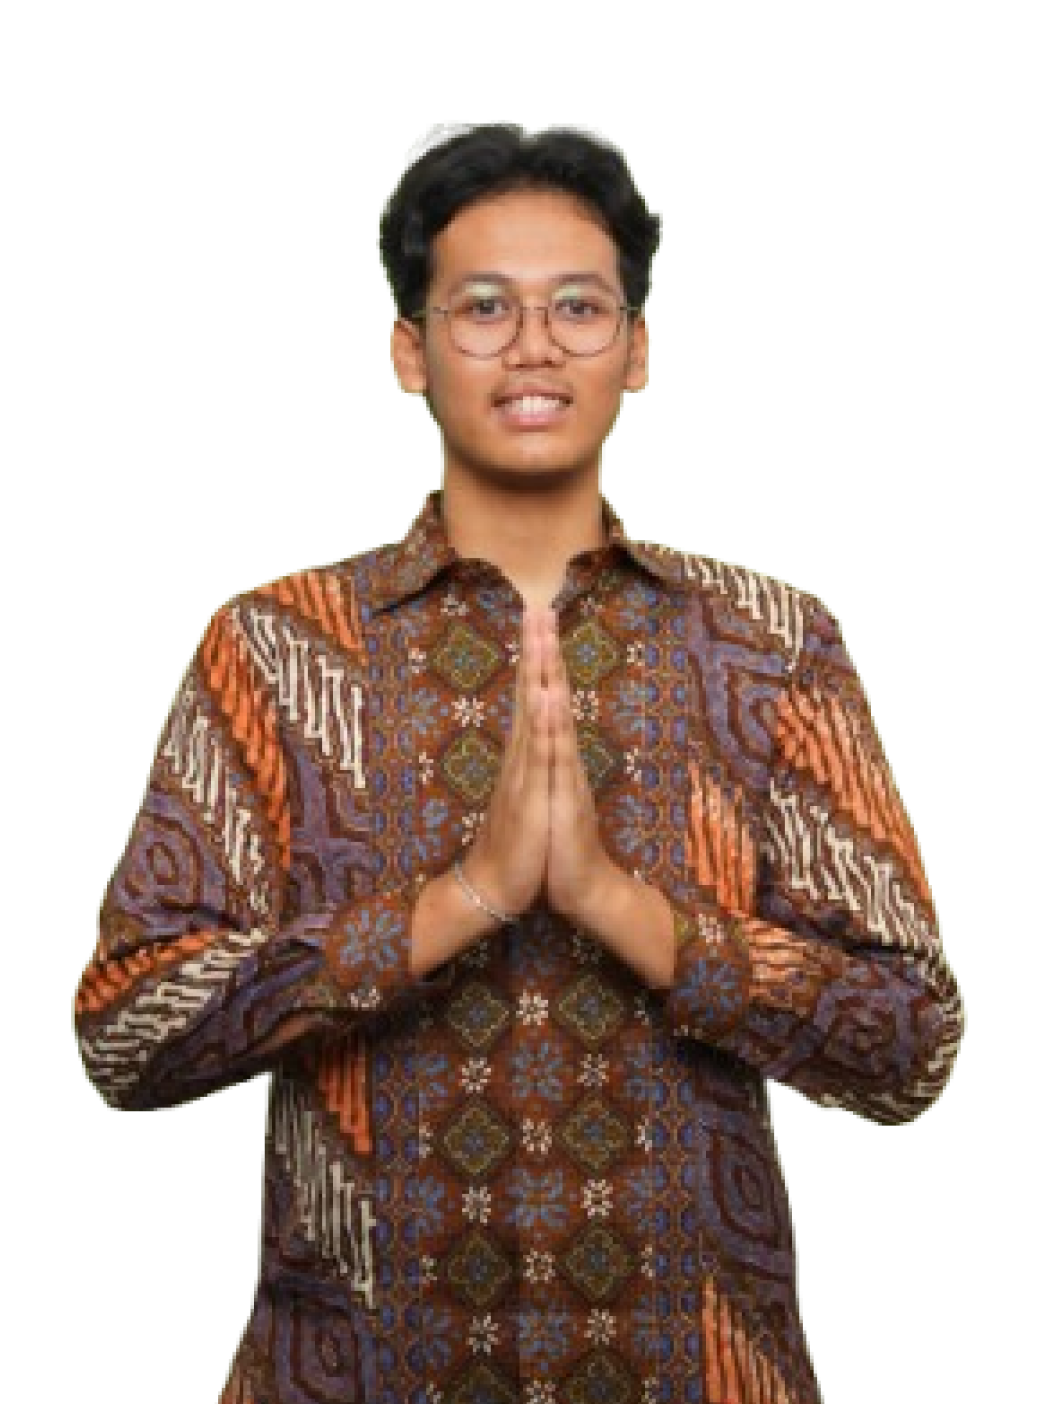
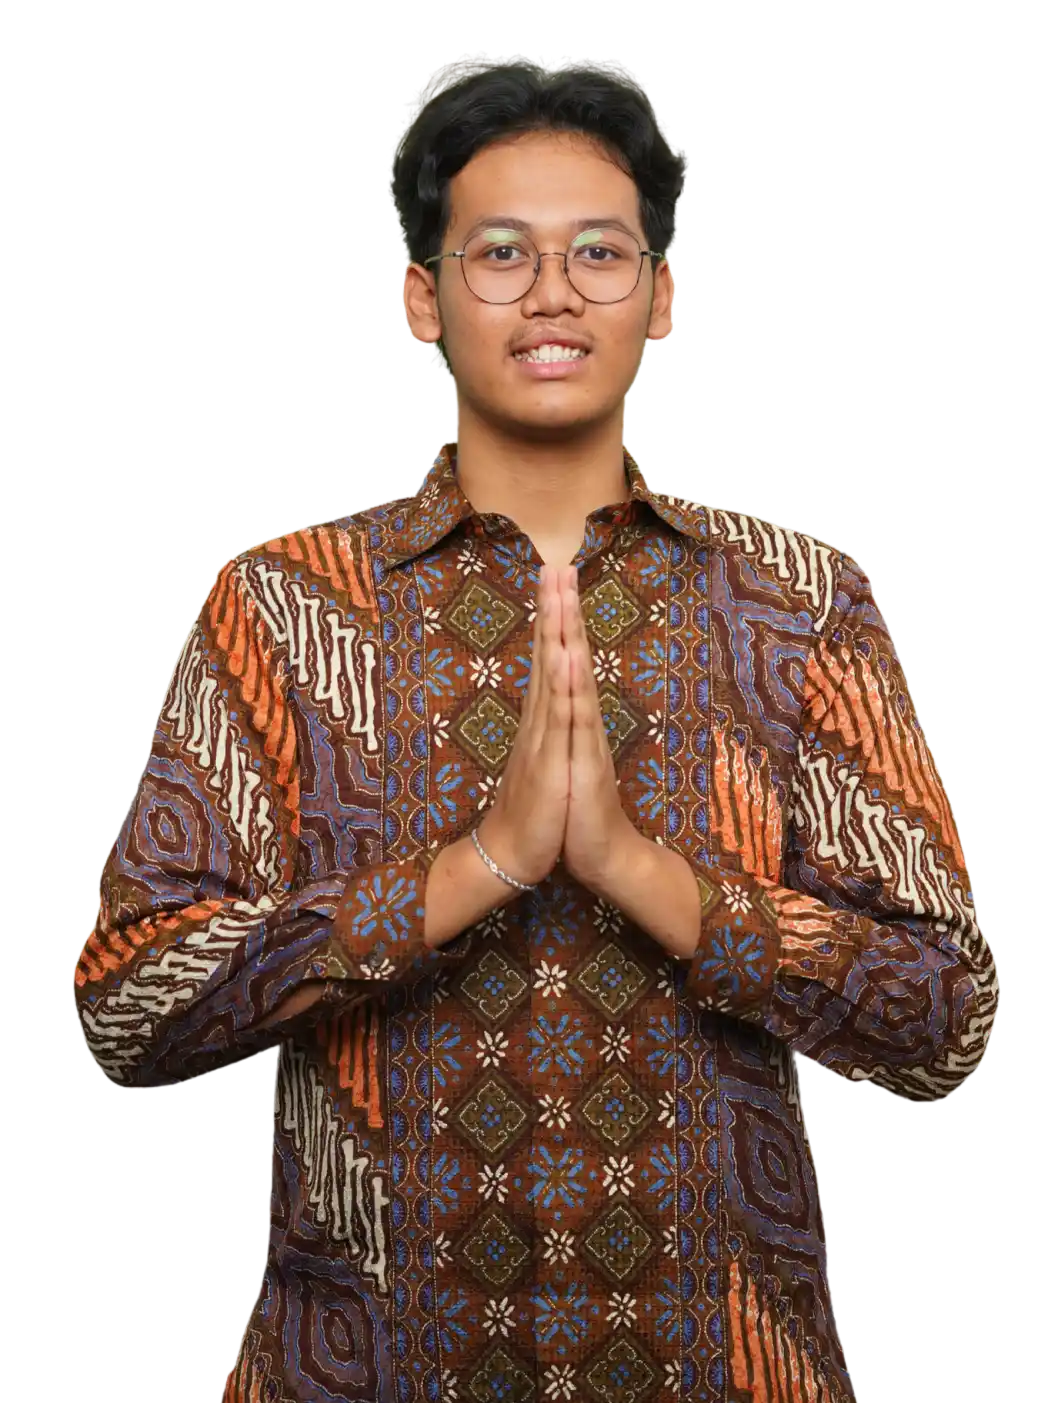
fix(image): fix image in dashboard participant status

diff --git a/web/src/modules/dashboard/home/participant-status.tsx b/web/src/modules/dashboard/home/participant-status.tsx
@@ -103,9 +103,9 @@ const Body = async () => {
         <Image
           src={`/assets/dashboard/home/${hasRegistered ? "model-2.webp" : "model-1.webp"}`}
           alt="Dashboard Image"
-          width={250}
-          height={250}
-          className="absolute right-0 -bottom-16 md:bottom-0"
+          width={1048}
+          height={1403}
+          className="absolute max-w-[250px] right-0 -bottom-16 md:bottom-0"
         />
       </div>
     </section>
